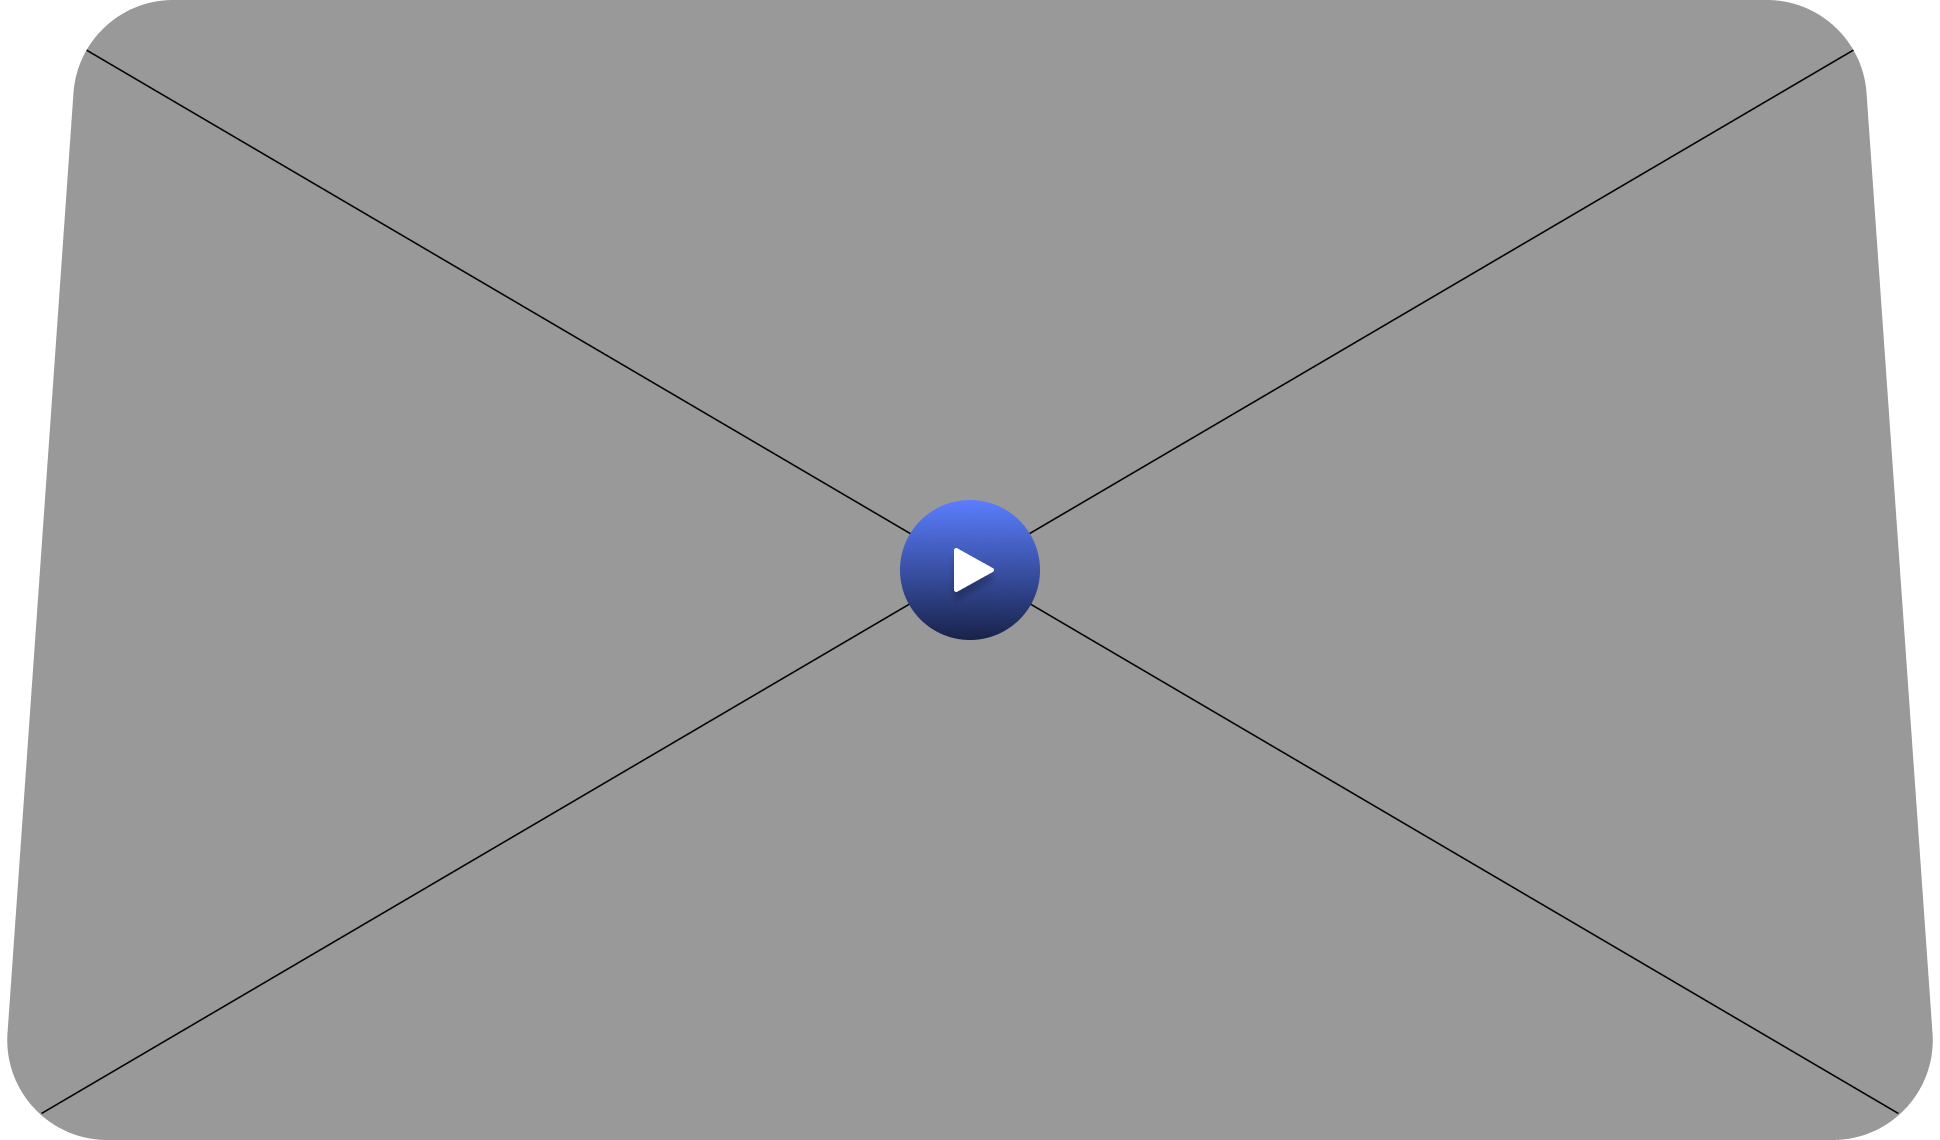
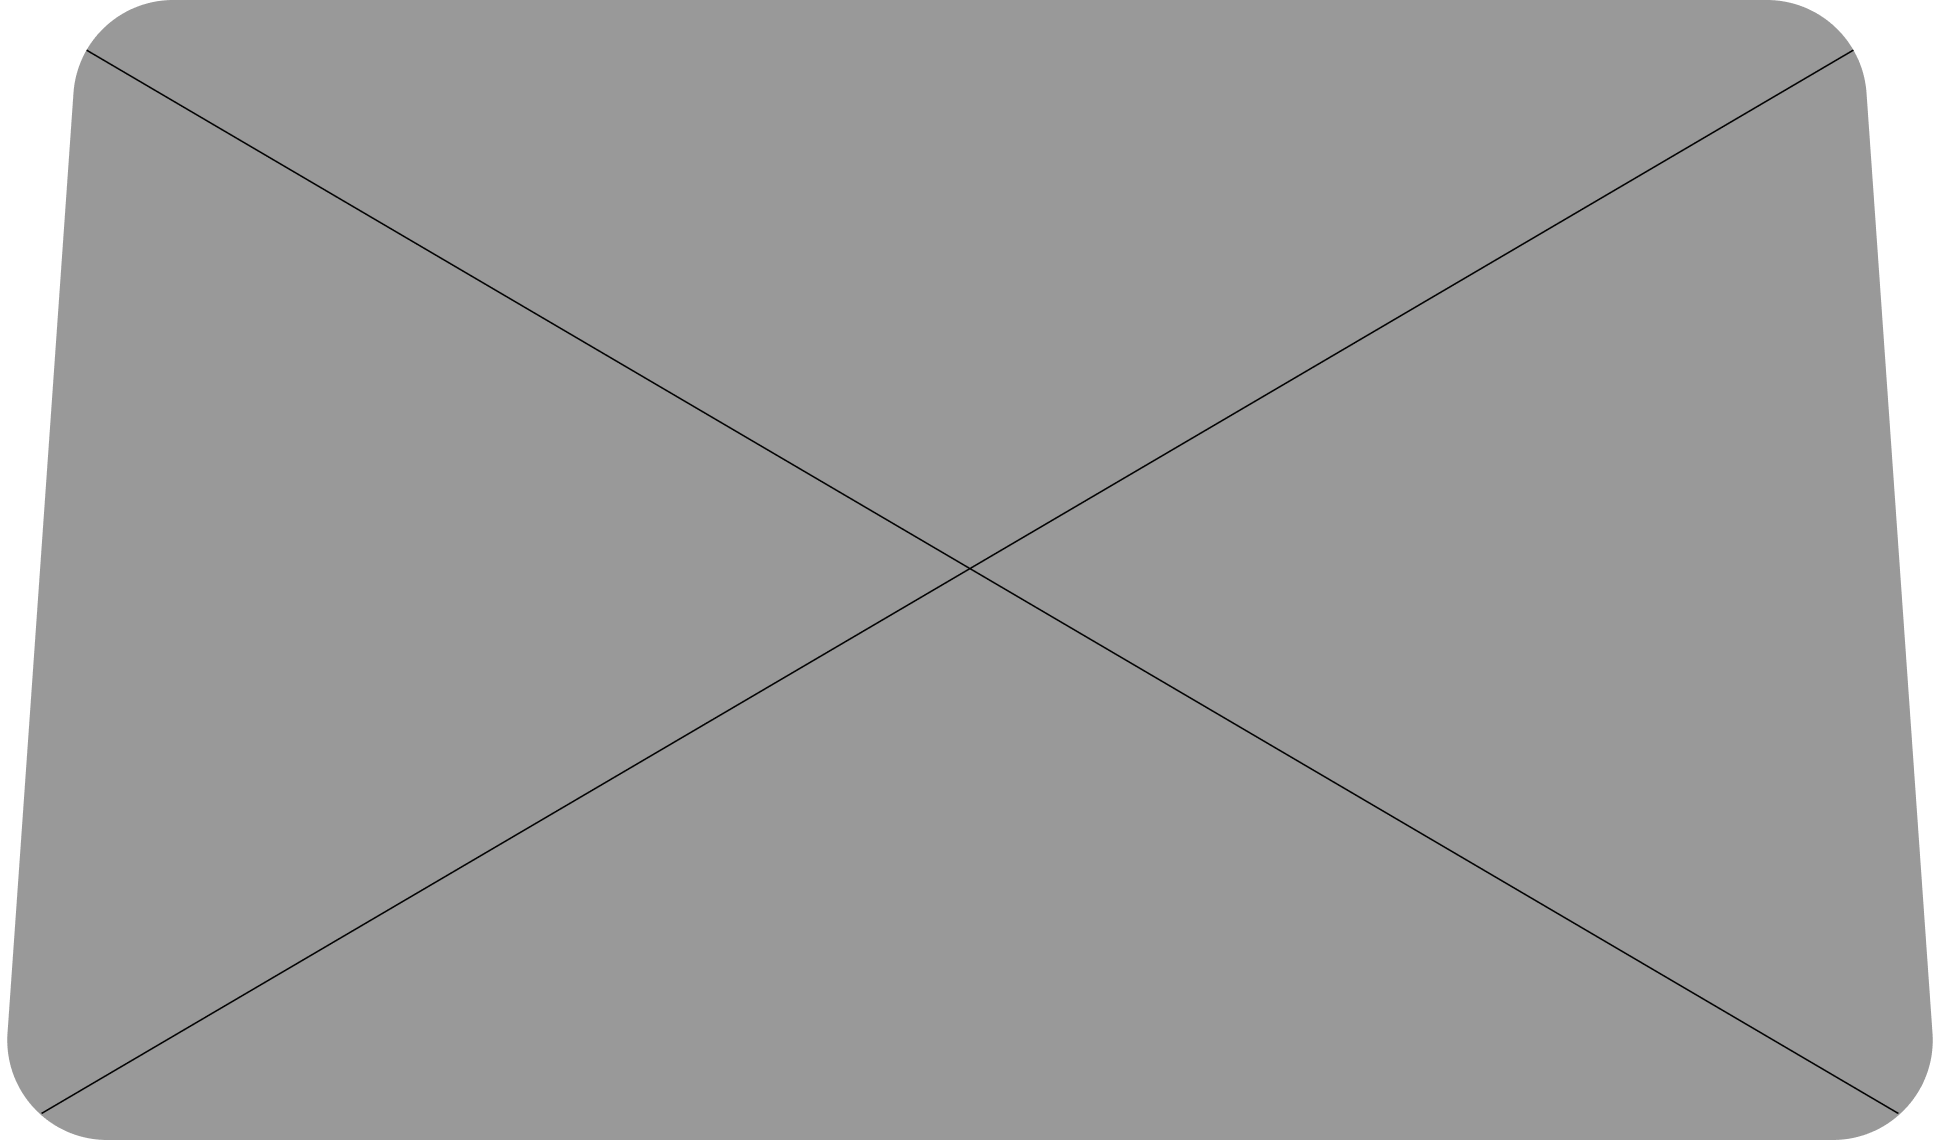
update progress 02

Changed region(s): [[0.4639, 0.4298, 0.5567, 0.5833]]

diff --git a/assets/css/style.css b/assets/css/style.css
@@ -2,11 +2,13 @@
 .btn {
   font-family: "Satoshi", sans-serif;
   font-size: 18px;
+  font-weight: 500;
   color: #ffffff;
   display: inline-block;
   border: unset;
   background-color: unset;
   cursor: pointer;
+  transition: all 500ms ease;
 }
 .btn-sign {
   padding: 16px 31.5px;
@@ -21,6 +23,10 @@
   font-size: 16px;
   padding: 16px;
   outline: 1px solid #ffffff;
+}
+.btn-outline:hover {
+  background-color: #ffffff;
+  color: #000000;
 }
 .btn-platform {
   display: inline-flex;
@@ -608,8 +614,18 @@ section {
 .trailer-bottom {
   gap: 40px;
 }
-.trailer-bottom .img-trailer {
+.trailer-bottom .video-play {
+  position: relative;
+}
+.trailer-bottom .video-play .img-trailer {
   max-width: 970px;
+}
+.trailer-bottom .video-play .ic-btn-play {
+  position: absolute;
+  top: 50%;
+  left: 50%;
+  transform: translate(-50%, -50%);
+  max-width: 70px;
 }
 .trailer-bottom .desc-text {
   max-width: 227px;
@@ -624,6 +640,14 @@ section {
   }
   .trailer-bottom .desc-text {
     margin-left: 50px;
+  }
+  .trailer-bottom .video-play .ic-btn-play {
+    max-width: 52px;
+  }
+}
+@media (max-width: 576px) {
+  .trailer-bottom .video-play .ic-btn-play {
+    max-width: 32px;
   }
 }
 
@@ -733,8 +757,11 @@ section {
     margin-bottom: 20px;
   }
   .footer-top .wrap-description {
-    flex-direction: column;
+    flex-wrap: wrap;
     gap: 20px;
+  }
+  .footer-top .wrap-description .item {
+    min-width: 142px;
   }
   .footer-top .wrap-description .item .desc-title {
     margin-bottom: 14px;

diff --git a/index.html b/index.html
@@ -3,6 +3,7 @@
     <head>
         <meta charset="UTF-8" />
         <meta name="viewport" content="width=device-width, initial-scale=1.0" />
+        <link rel="icon" href="./assets/images/ic-logo.svg" />
         <title>BOOBY THE METAVERSE</title>
         <!-- CSS -->
         <link rel="stylesheet" href="assets/css/style.css" />
@@ -341,7 +342,10 @@
                         data-aos-duration="1000"
                         data-aos-once="true"
                     >
-                        <img src="assets/images/img-trailer.png" alt="img-trailer" class="img img-trailer" />
+                        <div class="video-play">
+                            <img src="assets/images/img-trailer.png" alt="img-trailer" class="img img-trailer" />
+                            <img src="assets/images/ic-btn-play.svg" alt="ic-btn-play" class="ic ic-btn-play" />
+                        </div>
                         <p
                             class="desc-text"
                             data-aos="fade-up"

diff --git a/src/sass/_trailer.scss b/src/sass/_trailer.scss
@@ -9,8 +9,18 @@
 
     &-bottom {
         gap: 40px;
-        .img-trailer {
-            max-width: 970px;
+        .video-play {
+            position: relative;
+            .img-trailer {
+                max-width: 970px;
+            }
+            .ic-btn-play {
+                position: absolute;
+                top: 50%;
+                left: 50%;
+                transform: translate(-50%, -50%);
+                max-width: 70px;
+            }
         }
 
         .desc-text {
@@ -29,6 +39,22 @@
 
             .desc-text {
                 margin-left: 50px;
+            }
+
+            .video-play {
+                .ic-btn-play {
+                    max-width: 52px;
+                }
+            }
+        }
+    }
+
+    @media (max-width: 576px) {
+        &-bottom {
+            .video-play {
+                .ic-btn-play {
+                    max-width: 32px;
+                }
             }
         }
     }

diff --git a/src/sass/_components.scss b/src/sass/_components.scss
@@ -1,11 +1,13 @@
 .btn {
     font-family: $font-satoshi;
     font-size: $p;
+    font-weight: 500;
     color: $white-color;
     display: inline-block;
     border: unset;
     background-color: unset;
     cursor: pointer;
+    transition: all 500ms ease;
 
     &-sign {
         padding: 16px 31.5px;
@@ -22,6 +24,11 @@
         font-size: 16px;
         padding: 16px;
         outline: 1px solid $white-color;
+
+        &:hover {
+            background-color: $white-color;
+            color: $black-color;
+        }
     }
 
     &-platform {

diff --git a/src/sass/_footer.scss b/src/sass/_footer.scss
@@ -129,9 +129,10 @@
                 }
             }
             .wrap-description {
-                flex-direction: column;
+                flex-wrap: wrap;
                 gap: 20px;
                 .item {
+                    min-width: 142px;
                     .desc-title {
                         margin-bottom: 14px;
                     }
